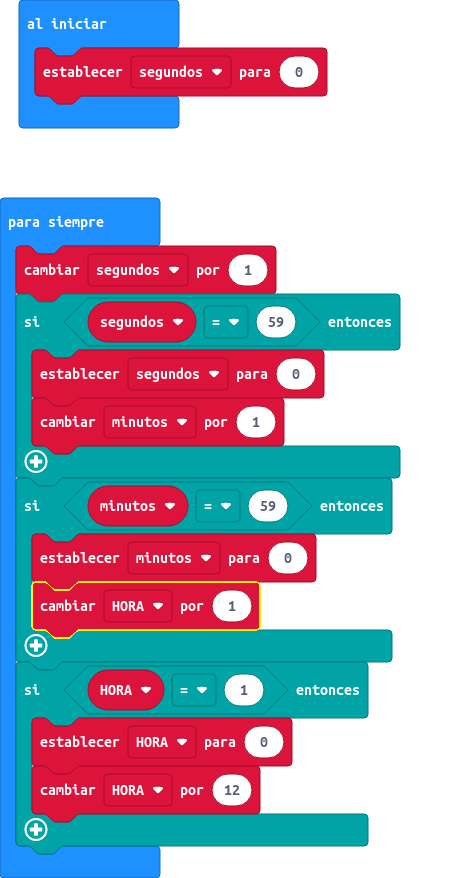
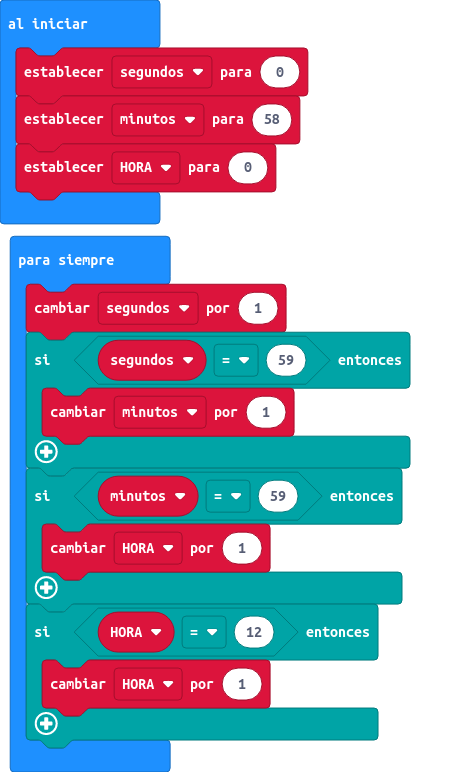
hice las horas

diff --git a/main.ts b/main.ts
@@ -1,18 +1,15 @@
-let HORA = 0
-let minutos = 0
 let segundos = 0
+let minutos = 58
+let HORA = 0
 basic.forever(function () {
     segundos += 1
     if (segundos == 59) {
-        segundos = 0
         minutos += 1
     }
     if (minutos == 59) {
-        minutos = 0
         HORA += 1
     }
-    if (HORA == 1) {
-        HORA = 0
-        HORA += 12
+    if (HORA == 12) {
+        HORA += 1
     }
 })
